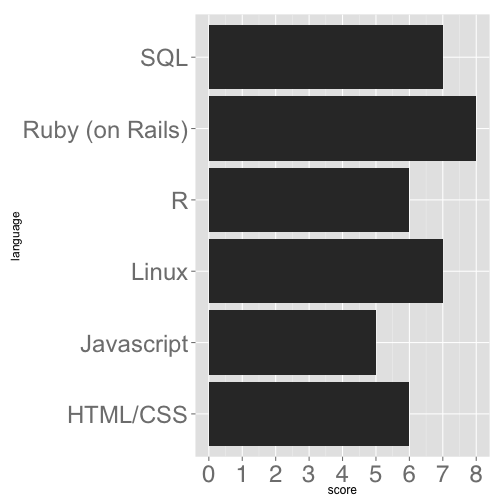
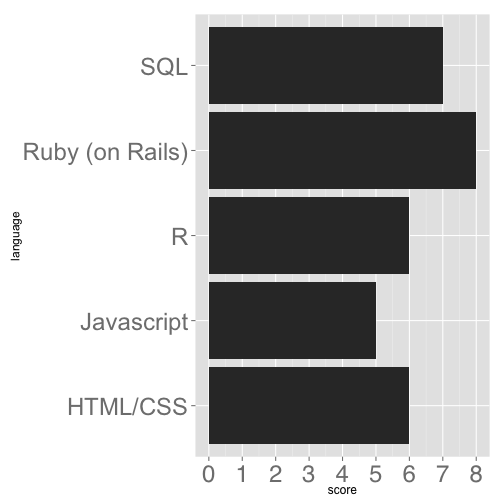
work in progress

diff --git a/index.html b/index.html
@@ -8,11 +8,12 @@
   <meta name="apple-mobile-web-app-capable" content="yes" />
   <meta name="apple-mobile-web-app-status-bar-style" content="black-translucent" />
   <link rel="stylesheet" href="libraries/frameworks/revealjs/css/reveal.min.css">
-  <link rel="stylesheet" href="libraries/frameworks/revealjs/css/theme/moon.css" id="theme">
+  <link rel="stylesheet" href="libraries/frameworks/revealjs/css/theme/default.css" id="theme">
   <link rel="stylesheet" href="libraries/highlighters/highlight.js/css/tomorrow.css" id="theme">
   <!--[if lt IE 9]>
   <script src="lib/js/html5shiv.js"></script>
-  <![endif]-->  <link rel="stylesheet" href = "assets/css/ribbons.css">
+  <![endif]-->  <link rel="stylesheet" href = "assets/css/custom.css">
+<link rel="stylesheet" href = "assets/css/ribbons.css">
 
 </head>
 <body>
@@ -20,14 +21,25 @@
     <div class="slides">
       <section class='' data-state='' id='slide-1'>
   <h1>Bram Jans</h1>
-  <h3>Backend Developer</h3>
+  <h3>Rails Developer</h3>
 
-<p><em>Looking for a job!</em></p>
+<p><em>Looking for a new challenge!</em></p>
+
+<p><a href="https://github.com/bramj" target="_blank">
+  <img width="80px" src="/Users/bram/Documents/cv-slidify/assets/img/bram.jpg" />
+</a></p>
 
 </section>
-<section class='' data-state='' id='slide-2'>
-  <h2>Education</h2>
-  <h3>[2011–2012] Master of Engineering - Computer Science</h3>
+<section>
+   <section class='' data-state=''>
+    <h1>Education</h1>
+    
+    <aside class='notes'>
+      
+    </aside>
+   </section>
+   <section class='' data-state=''>
+    <h3>[2011–2012] Master of Engineering - Computer Science</h3>
 
 <p><font size="5">
 <em>University of Leuven, Cum Laude</em>
@@ -40,8 +52,106 @@
 
 <p><font size="5"><em>University of Leuven</em></font></p>
 
+    <aside class='notes'>
+      
+    </aside>
+   </section>
 </section>
-<section class='' data-state='' id='slide-3'>
+<section>
+   <section class='' data-state=''>
+    <h1>Projects</h1>
+    
+    <aside class='notes'>
+      
+    </aside>
+   </section>
+   <section class='' data-state=''>
+    <h2>DataCamp</h2>
+
+<div class="projects">
+<a href="https://www.datacamp.com" target="_blank" class="mask">
+  <img src="/Users/bram/Documents/cv-slidify/assets/img/datacamp_screenshot.png" />
+  <div class="caption">  
+    <h3 style="color:#4D4D4D">Interactive learning platform</h3>  
+    <ul>
+      <li>Interactive environment for learning R</li>
+      <li>I did development for the DataCamp backend, a RESTful API in Ruby on Rails</li>
+      <li>The backend interacts with an Angular.js front end and connects to R servers in the cloud</li>
+      <li>Hosting on Heroku and Amazon AWS (EC2, S3, RDS, etc.)</li>
+    </ul>
+  </div>
+</a>
+</div>
+
+    <aside class='notes'>
+      
+    </aside>
+   </section>
+   <section class='' data-state=''>
+    <h2>Rdocumentation</h2>
+
+<div class="projects">
+<a href="http://www.rdocumentation.org" target="_blank" class="mask">
+  <img src="/Users/bram/Documents/cv-slidify/assets/img/rdocs_screenshot.png" />
+  <div class="caption">  
+    <h3 style="color:#4D4D4D">R documentation aggregator</h3>  
+    <ul>
+      <li>Rails app that maintains documentation of R packages</li>
+      <li>Automatically updates the documentation by connecting to an R server on EC2</li>
+    </ul>
+  </div>
+</a>
+</div>
+
+    <aside class='notes'>
+      
+    </aside>
+   </section>
+</section>
+<section>
+   <section class='' data-state=''>
+    <h1>Skills</h1>
+    
+    <aside class='notes'>
+      
+    </aside>
+   </section>
+   <section class='' data-state=''>
+    <p><img src="assets/fig/skills-plot.png" alt="plot of chunk skills-plot"> </p>
+
+<h4>More tools</h4>
+
+<p><font size="5">Also: Git, Heroku, Amazon (EC2, S3, RDS, et.), Linux, Python, Node.js</font></p>
+
+    <aside class='notes'>
+      
+    </aside>
+   </section>
+   <section class='' data-state=''>
+    <h2>Languages</h2>
+
+<ul>
+<li>Dutch (native)</li>
+<li>English (advanced)</li>
+<li>Spanish (advanced)</li>
+<li>French (intermediate)</li>
+</ul>
+
+    <aside class='notes'>
+      
+    </aside>
+   </section>
+</section>
+<section class='' data-state='' id='slide-5'>
+  <h2>Contact</h2>
+  <h4><a href="mailto:ik@bramjans.com">ik@bramjans.com</a></h4>
+
+<h4><a href="https://github.com/bramj">https://github.com/bramj</a></h4>
+
+<p><font size="3">Presentation made with <a href="http://slidify.org">slidify</a> and <a href="http://lab.hakim.se/reveal-js/#/">reveal.js</a></font></p>
+
+</section>
+<section class='' data-state='' id='slide-6'>
   <h2>Jobs</h2>
   <h3>[2013-Now] Backend developer, DataCamp</h3>
 
@@ -62,25 +172,6 @@ Worked full-time with client Elia, owner of the Belgian electricity network. Cre
 <p><font size="5">Development of a business analysis tool written in REALbasic.</font></p>
 
 </section>
-<section class='' data-state='' id='slide-4'>
-  <h2>Skills</h2>
-  <p><img src="assets/fig/skills-plot.png" alt="plot of chunk skills-plot"> </p>
-
-<h4>And notions of</h4>
-
-<p><font size="5">Java, Python, Node.js, Matlab, REALbasic</font></p>
-
-</section>
-<section class='' data-state='' id='slide-5'>
-  <h2>Languages</h2>
-  <ul>
-<li>Dutch (native)</li>
-<li>English (advanced)</li>
-<li>Spanish (advanced)</li>
-<li>French (intermediate)</li>
-</ul>
-
-</section>
     </div>
   </div>
 </body>
@@ -94,7 +185,7 @@ Worked full-time with client Elia, owner of the Belgian electricity network. Cre
     progress: true,
     history: true,
     center: true,
-    theme: Reveal.getQueryHash().theme || 'moon', 
+    theme: Reveal.getQueryHash().theme || 'default', 
     transition: Reveal.getQueryHash().transition || 'default', 
     dependencies: [
     // Cross-browser shim that fully implements classList -

diff --git a/assets/css/custom.css b/assets/css/custom.css
@@ -1,0 +1,45 @@
+
+.projects .mask {
+  display: inline-block;
+  position:relative;
+  width:800px;
+  //box-shadow:0 0 1px #000;
+  //border:3px solid #f6f6f6;
+  overflow:hidden;
+  //float:left;
+  margin:15px;
+}
+.projects .mask img {
+  //position:absolute;
+  width:800px;
+  border:none;
+  margin:0px;
+  max-width:100%;
+  max-height:100%;
+}
+
+.projects .caption {  
+  background-color: rgba(238, 232, 213, 0.9); 
+  position: absolute;  
+  color: #4D4D4D;  
+    left: 0;
+  right: 0;
+  top: 0;
+  bottom: 0;
+  padding: 30px;
+  font-size:0.8em;
+  opacity: 0;
+  -webkit-transition: all 300ms ease-out;  
+  -moz-transition: all 300ms ease-out;  
+  -o-transition: all 300ms ease-out;  
+  -ms-transition: all 300ms ease-out;  
+  transition: all 500ms ease-out;   
+  
+  h3 {
+    color: #4D4D4D;
+  }
+}  
+
+.projects .mask:hover .caption {  
+  opacity: 1;  
+}
